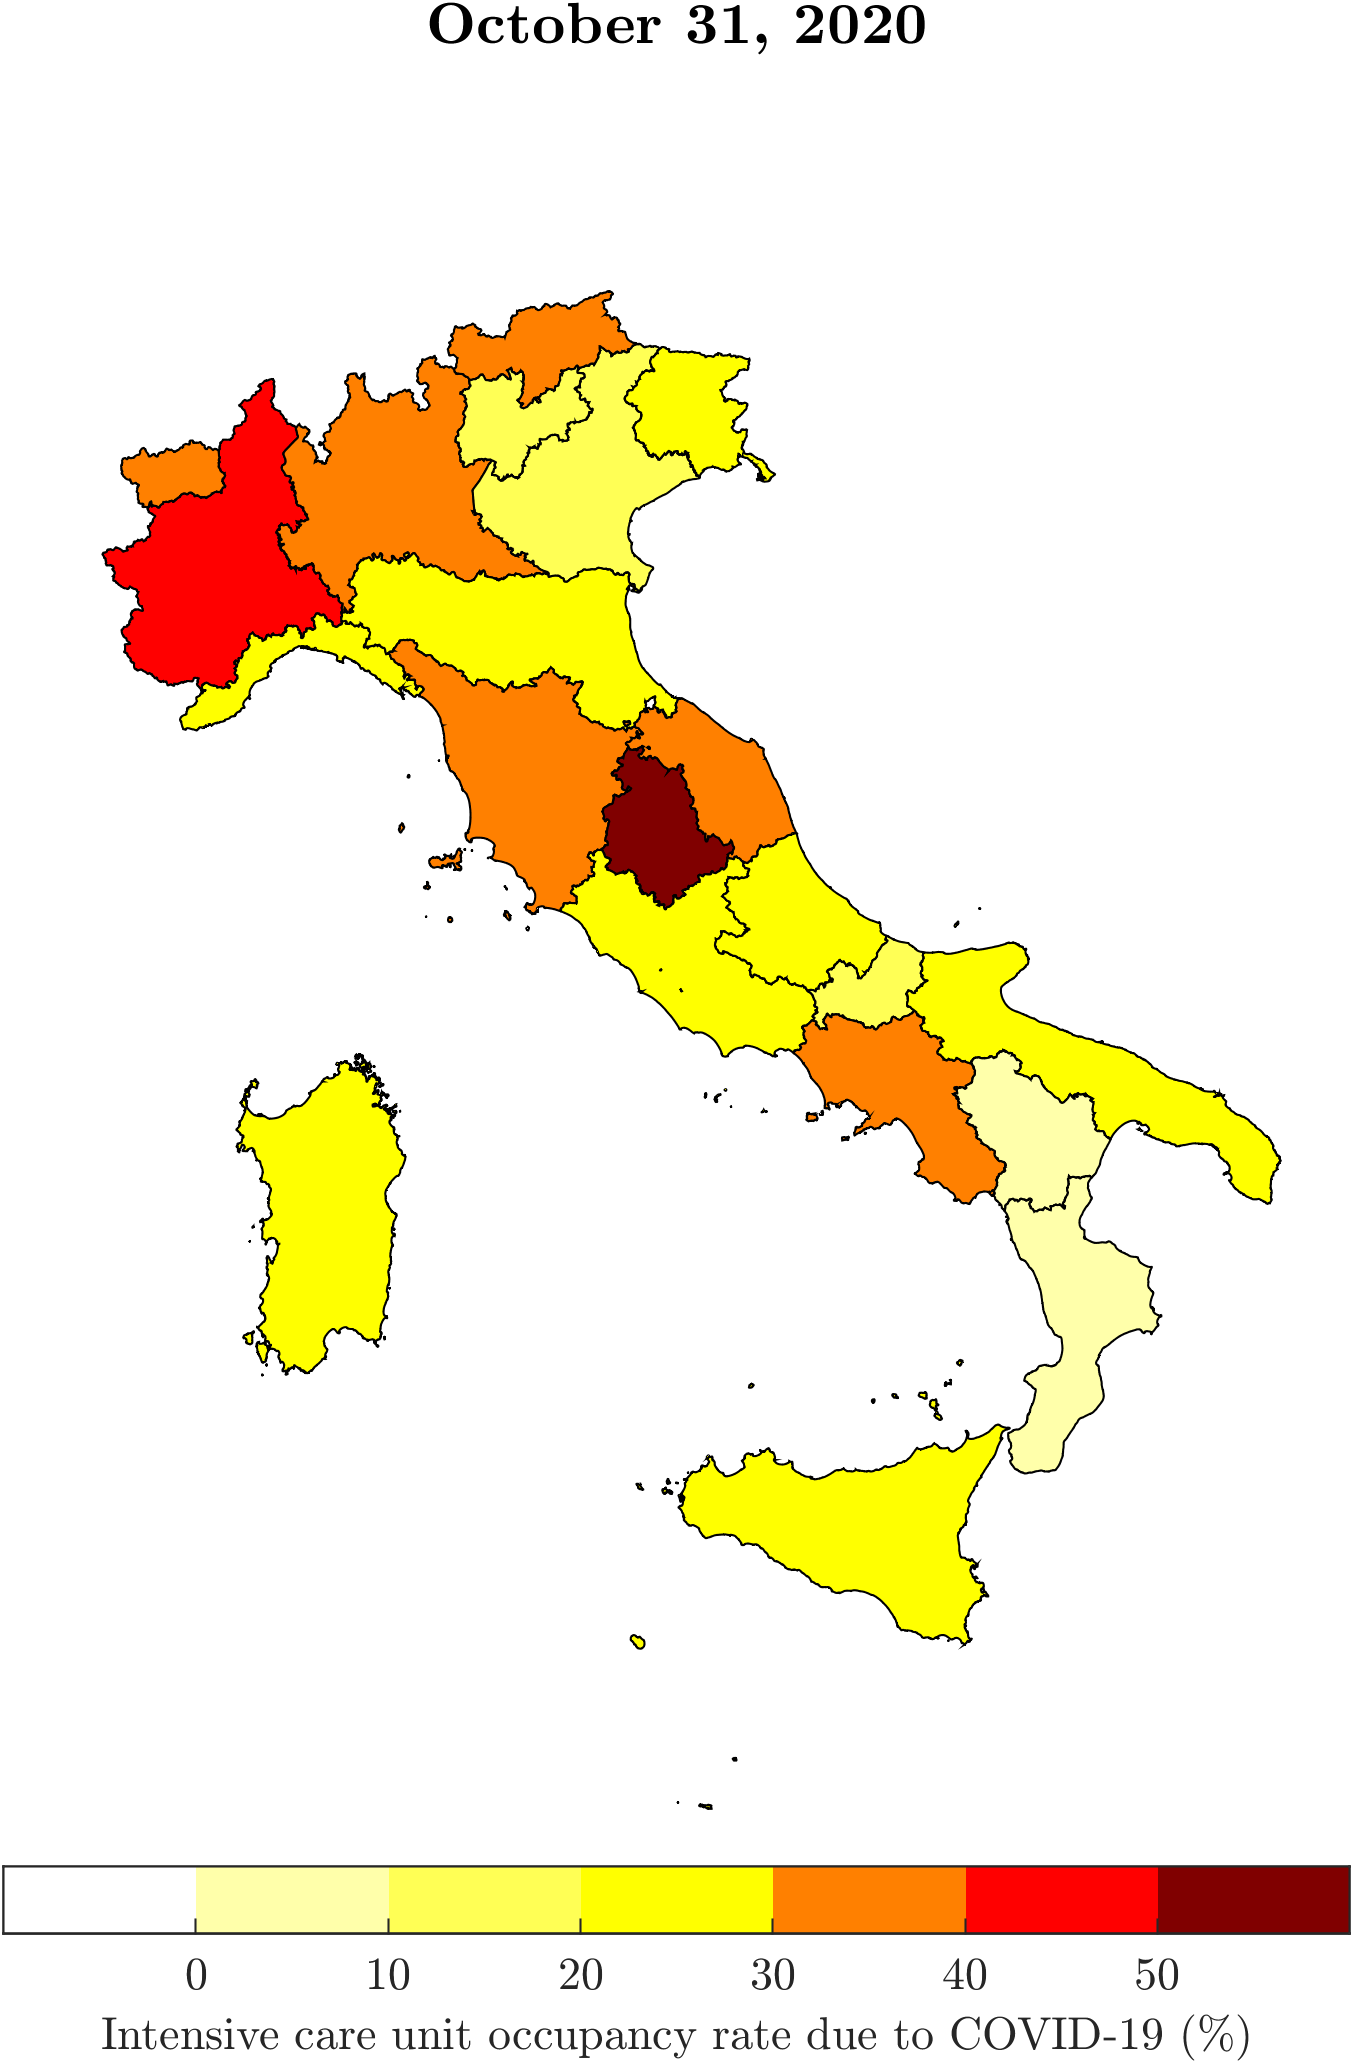
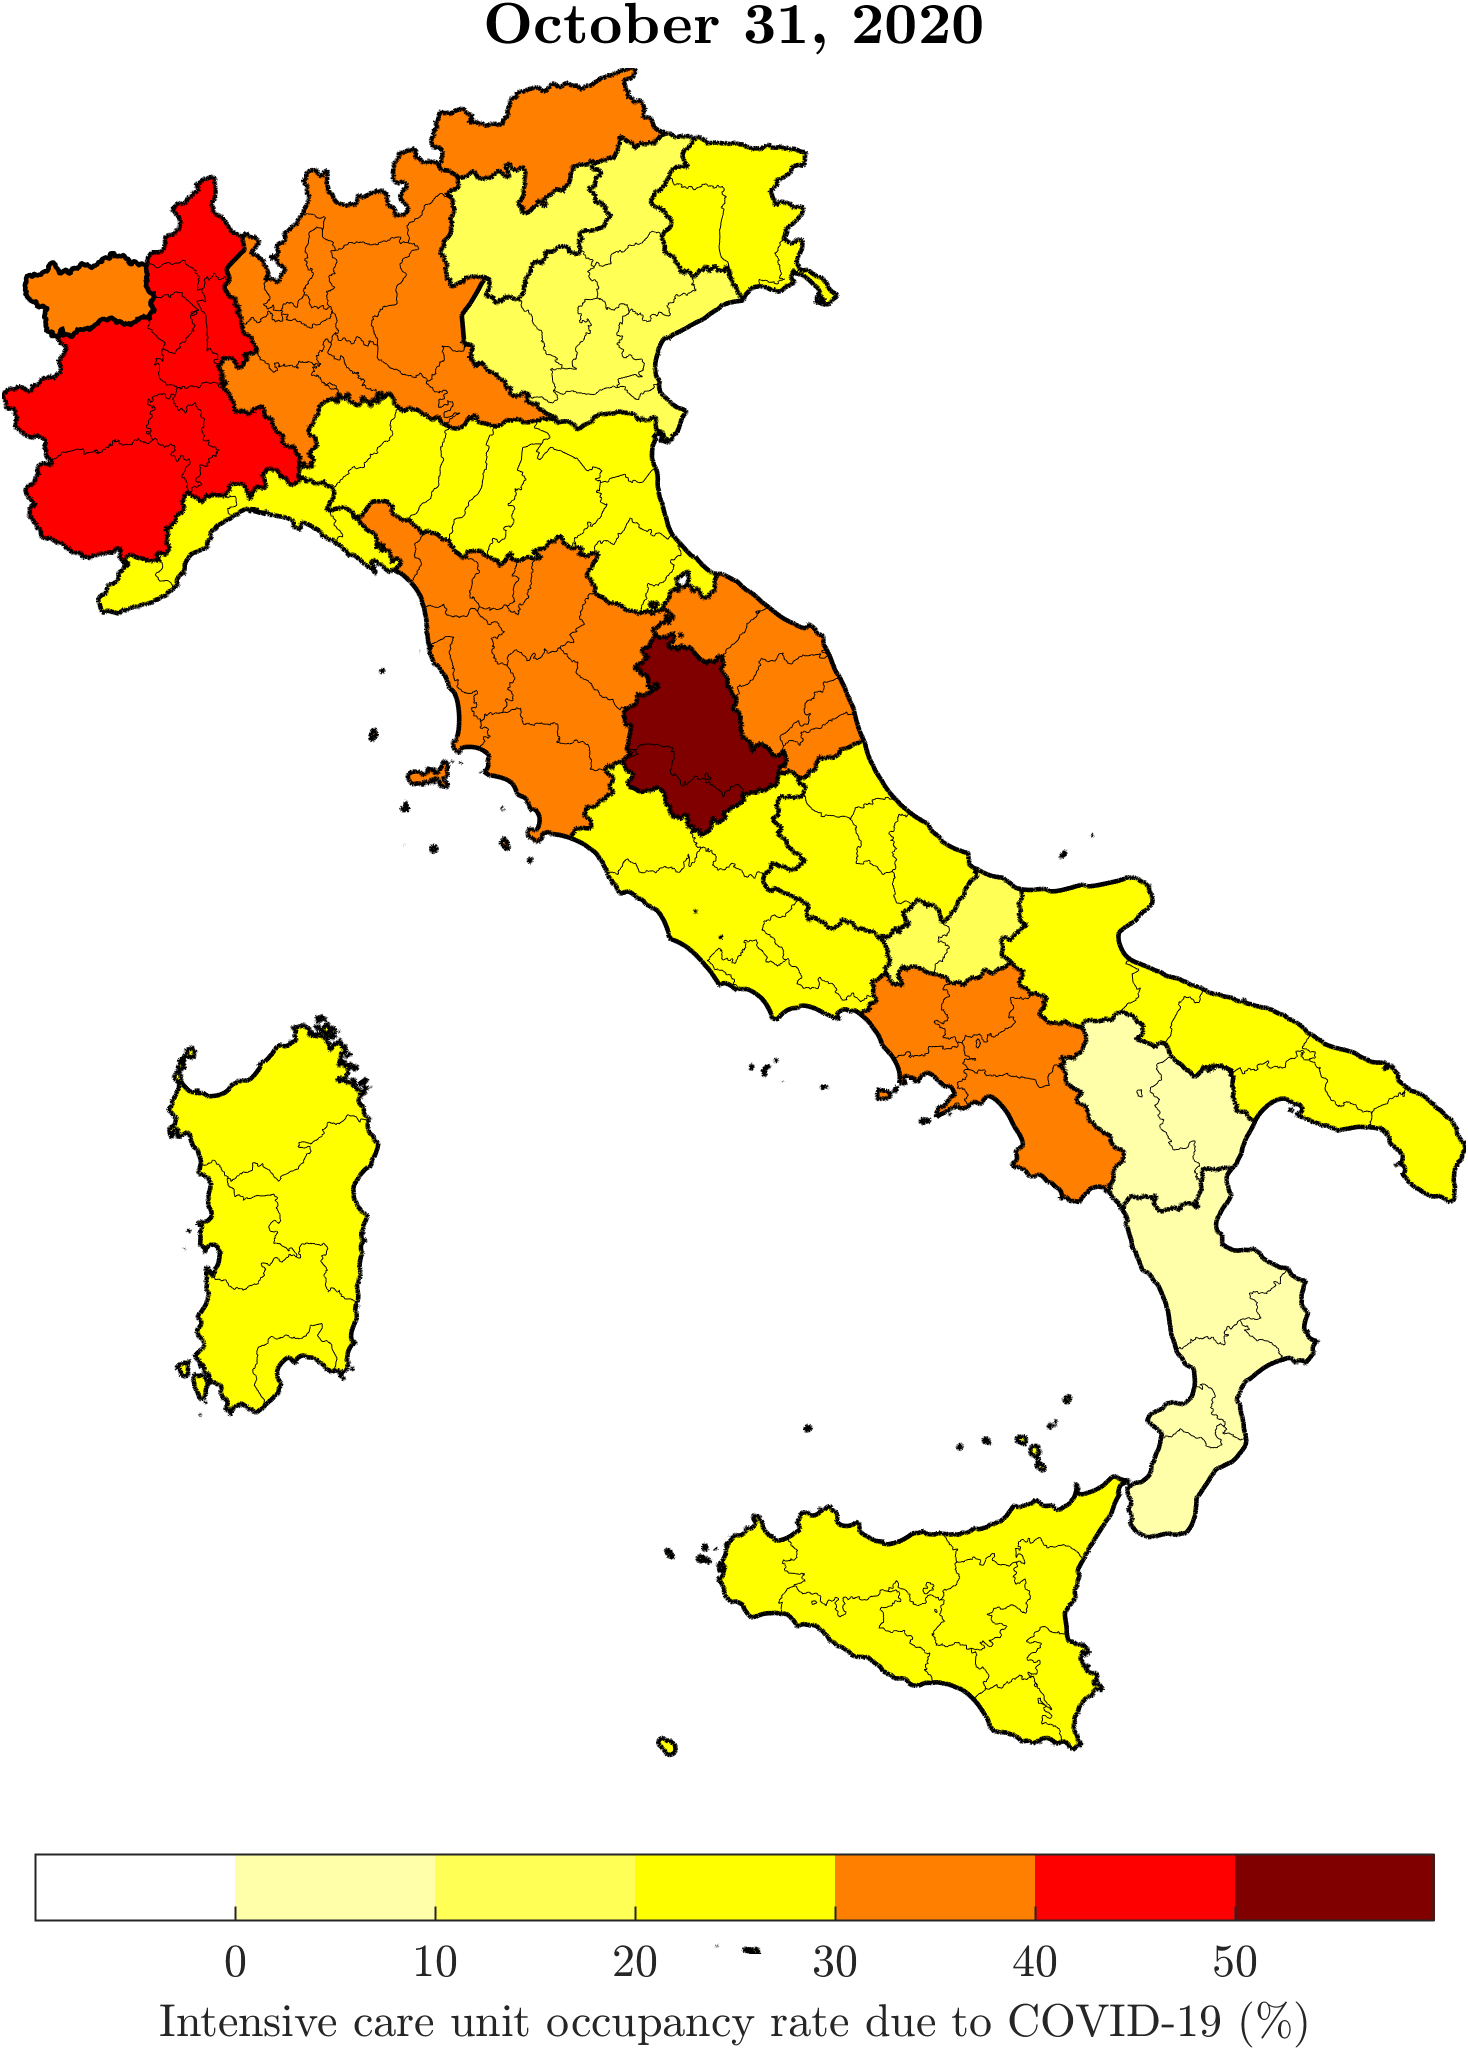
new ylimits

diff --git a/matlab/main_covid_icu.m b/matlab/main_covid_icu.m
@@ -16,8 +16,8 @@ reg_names = get_region_names();
 n_regs = size(reg_names, 1);     % Number of regions
 
 % Date
-first_day_back = datetime('01-10-2020', 'InputFormat', 'dd-MM-yyyy');
-% first_day_back = datetime('31-10-2020', 'InputFormat', 'dd-MM-yyyy');
+% first_day_back = datetime('01-10-2020', 'InputFormat', 'dd-MM-yyyy');
+first_day_back = datetime('31-10-2020', 'InputFormat', 'dd-MM-yyyy');
 last_day_back = datetime('31-10-2020', 'InputFormat', 'dd-MM-yyyy');
 n_days_back = days(last_day_back - first_day_back);
 for days_back = 0:n_days_back
@@ -97,10 +97,16 @@ cmap = colormap(flip(hot(n_levels + 2), 1));
 for k = 1:n_regs
     level = determine_level(icu_cases_reg_frac(k), ...
         n_levels, low_level, upp_level);
-    mapshow(regions{k}, 'FaceColor', cmap(level, :));
+    mapshow(regions{k}, 'FaceColor', cmap(level, :), ...
+    'LineWidth', 1.1);
     if k == 1
         hold on;
     end
+end
+n_provs = size(provinces, 1);
+for k = 1:n_provs
+    mapshow(provinces{k}, 'FaceAlpha', 0., ...
+        'LineWidth', 0.25);
 end
 date_format = 'mmmm dd, yyyy';
 set(get(gca, 'Title'), 'String', join(['\bf ', datestr(day, date_format)]), ...
@@ -120,6 +126,10 @@ cb.Label.Interpreter = 'Latex';
 cb.Label.String = 'Intensive care unit occupancy rate due to COVID-19 (\%)';
 cb.Label.FontSize = 11;
 set(cb, 'AxisLocation', 'out');
+
+ymin = 3900000;
+ymax = 5220000;
+axis([-inf, +inf, ymin, ymax]);
 
 axis off
 

diff --git a/matlab/main_covid_hotspots.m b/matlab/main_covid_hotspots.m
@@ -25,7 +25,7 @@ n_provs = size(prov_names, 1);     % Number of provinces
 % Get date
 
 % first_day_back = datetime('01-07-2020', 'InputFormat', 'dd-MM-yyyy');
-first_day_back = datetime('01-10-2020', 'InputFormat', 'dd-MM-yyyy');
+first_day_back = datetime('31-10-2020', 'InputFormat', 'dd-MM-yyyy');
 last_day_back = datetime('31-10-2020', 'InputFormat', 'dd-MM-yyyy');
 n_days_back = days(last_day_back - first_day_back);
 for days_back = 0:n_days_back
@@ -208,6 +208,10 @@ cb.Label.String = 'Average daily cases per 100,000 people in the last week';
 cb.Label.Interpreter = 'Latex';
 cb.Label.FontSize = 11;
 set(cb, 'AxisLocation', 'out');
+
+ymin = 3900000;
+ymax = 5220000;
+axis([-inf, +inf, ymin, ymax]);
 
 axis off
 
